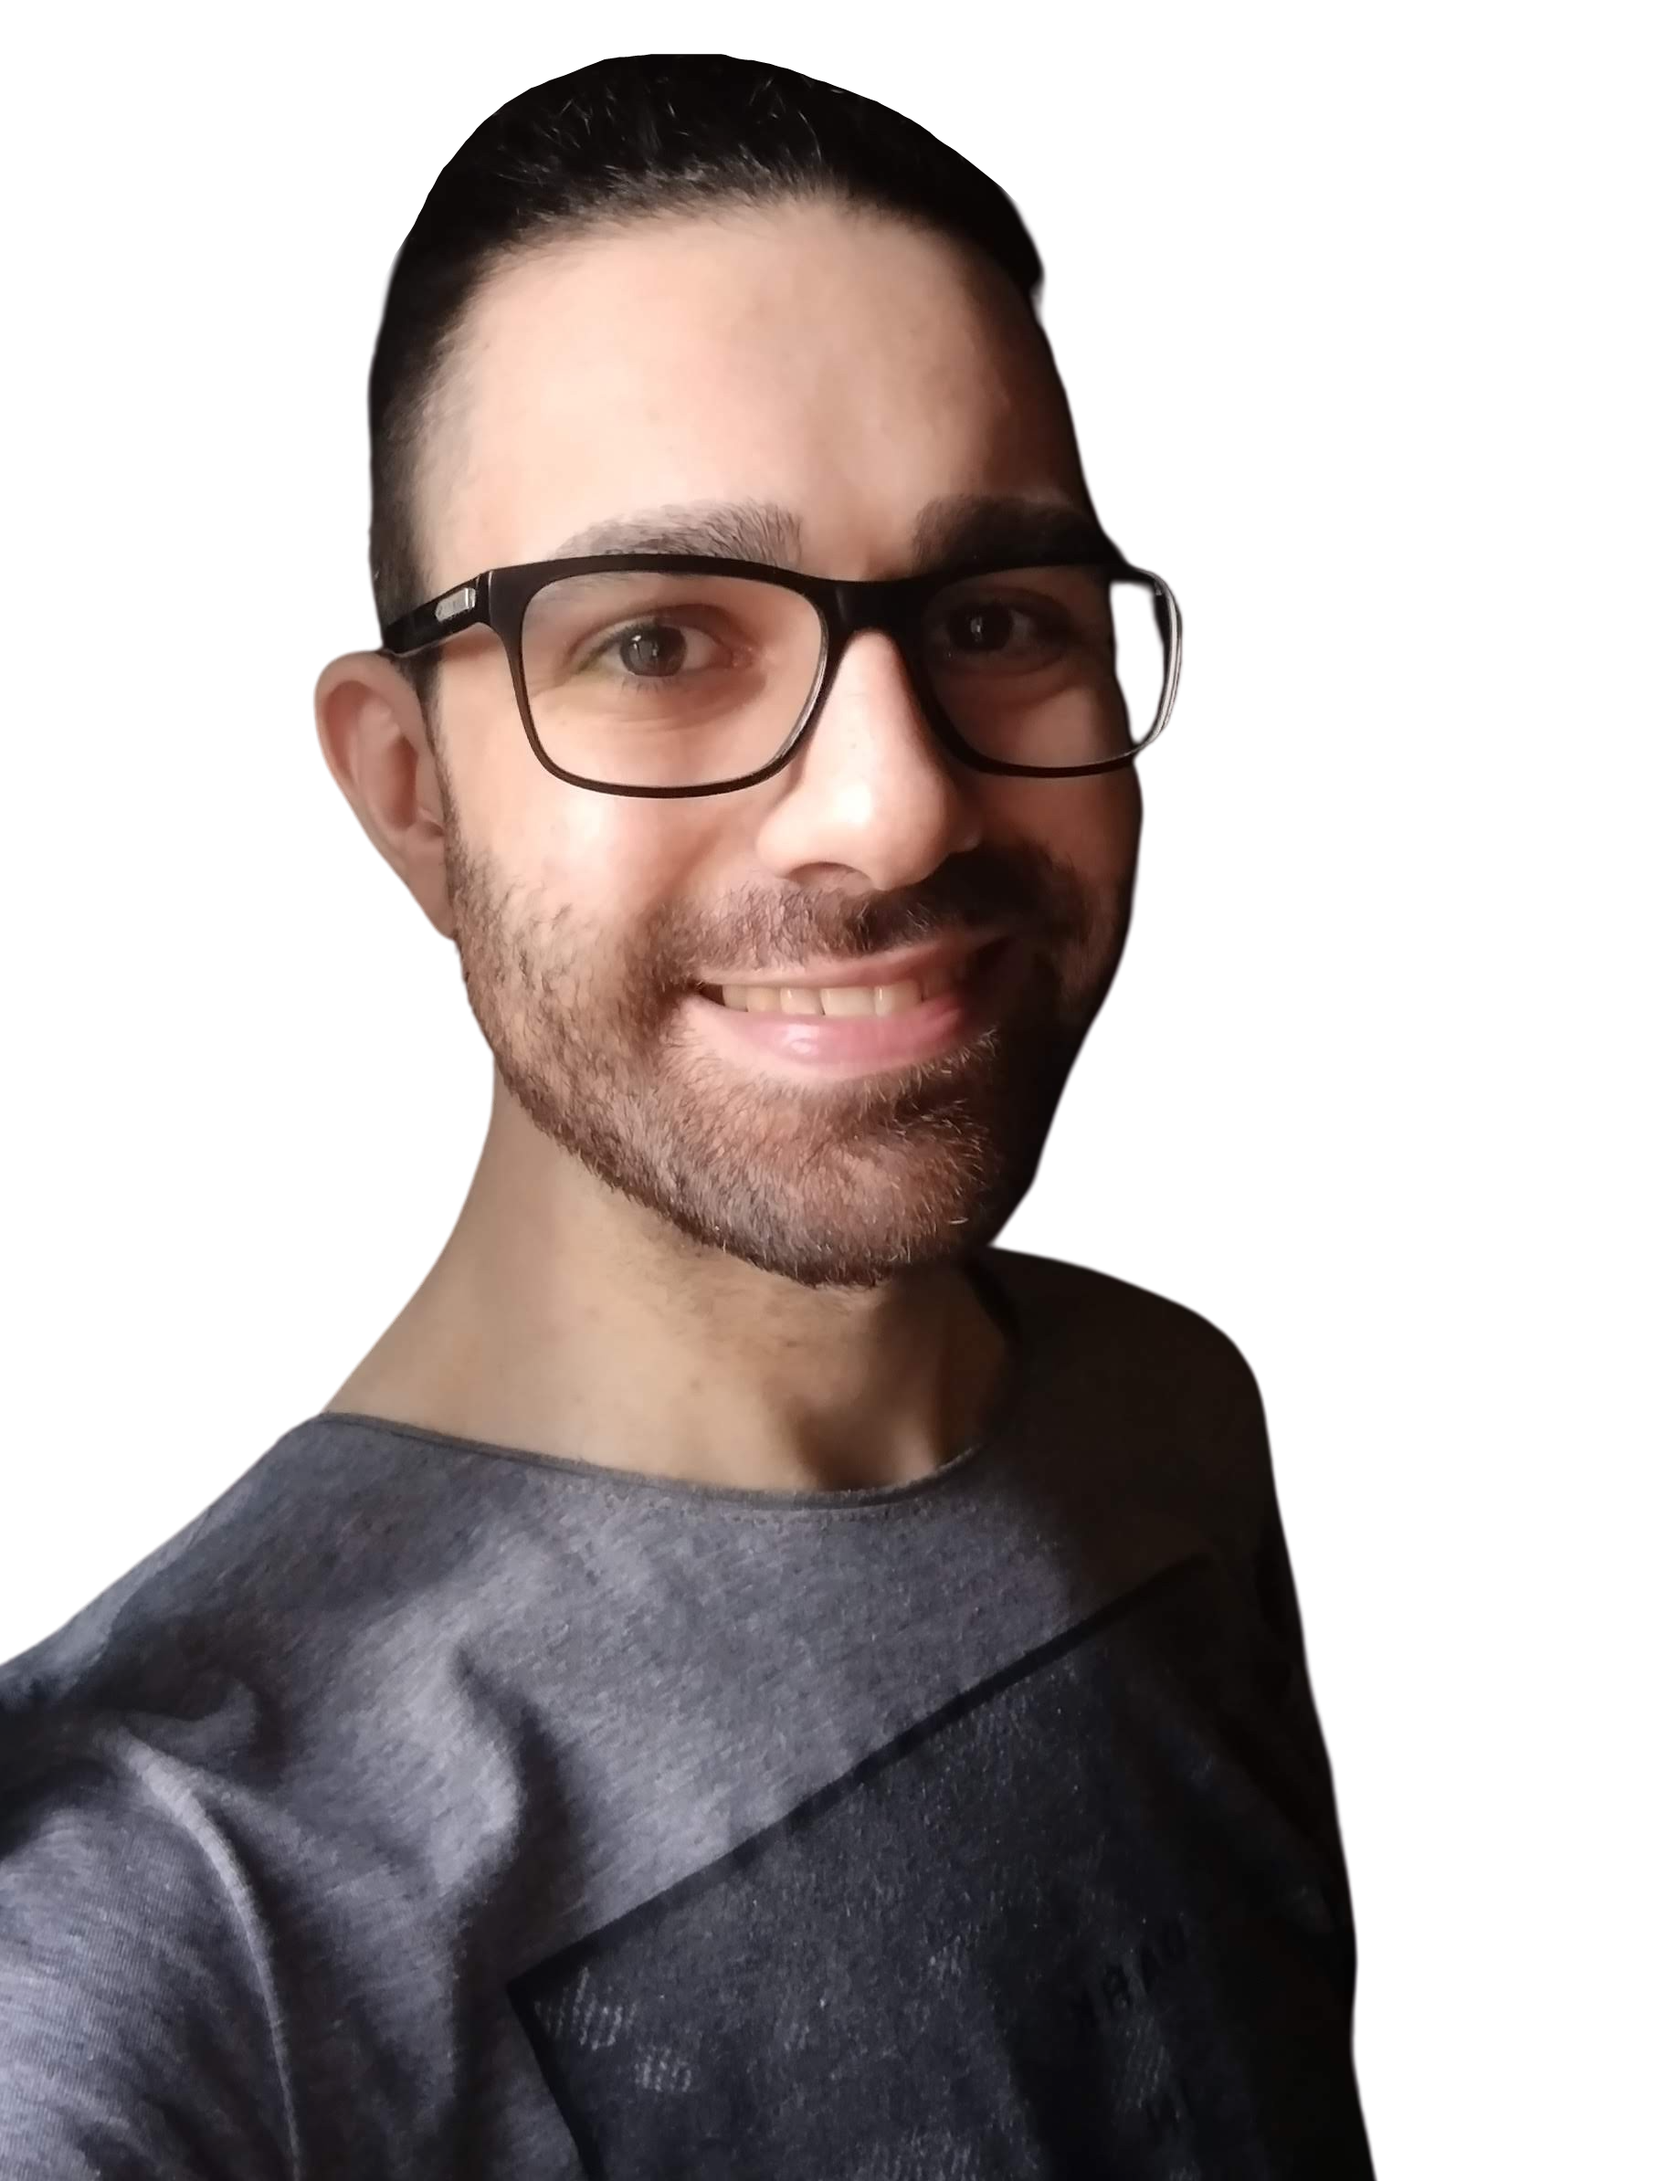
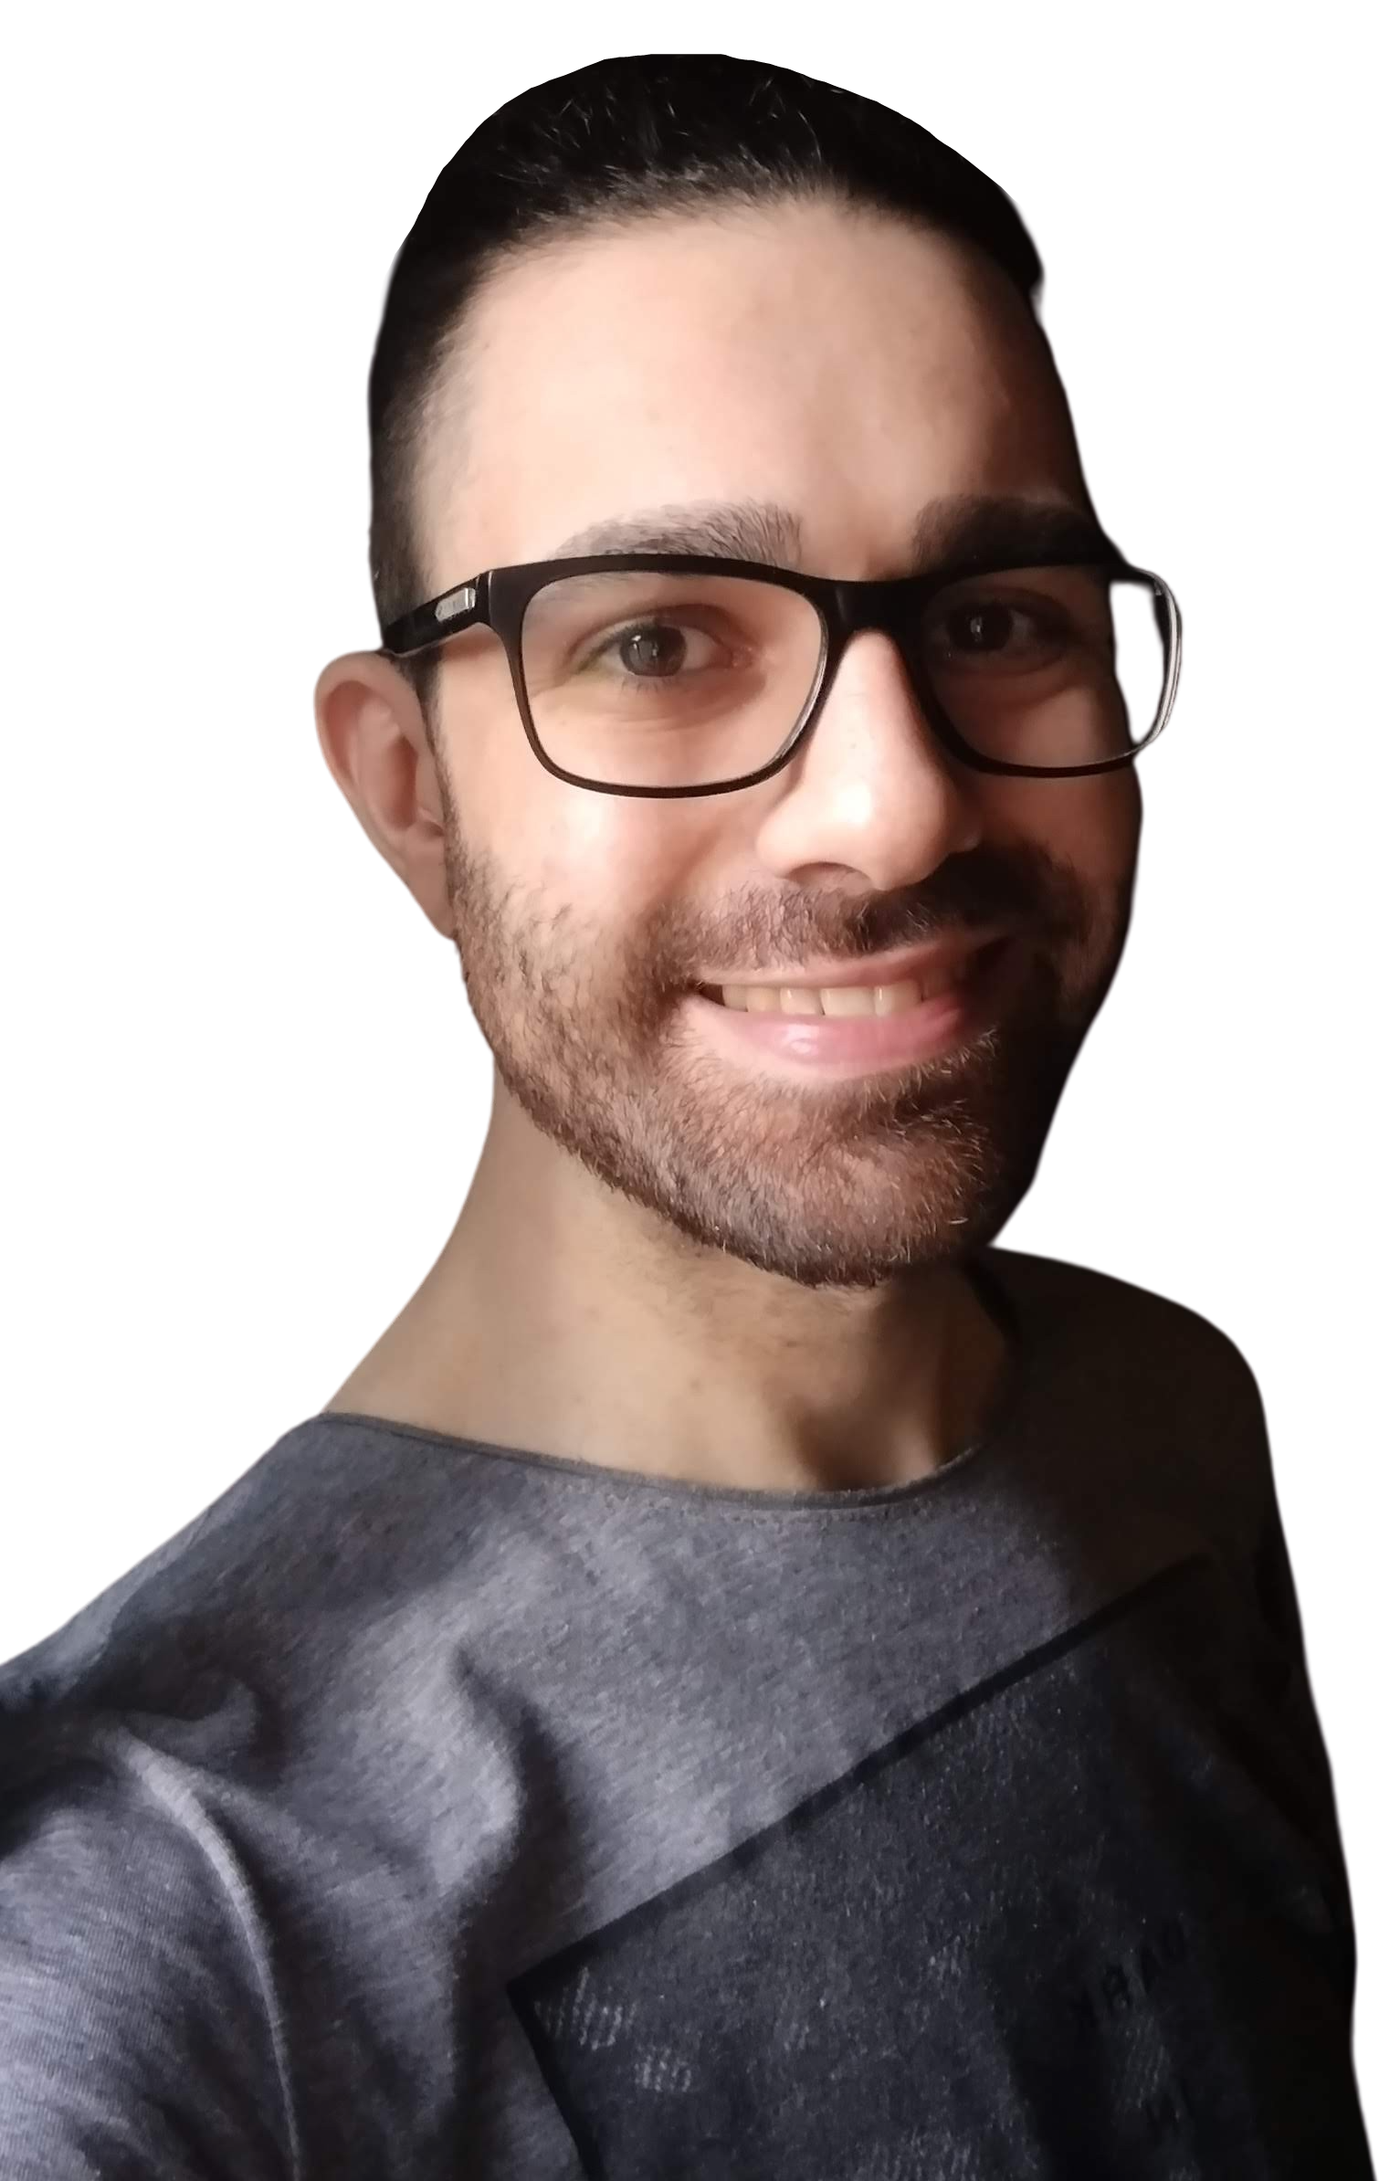
first prototype of navbar

diff --git a/src/components/AppHeader/index.tsx b/src/components/AppHeader/index.tsx
@@ -1,18 +1,111 @@
 import Logo from '../Logo'
 import LanguageSelector from '../LanguageSelector'
+import useContent from '@/hooks/useContent'
+import Link from 'next/link'
+import { breakPoints, colors } from '@/styles/theme'
+import { FontAwesomeIcon } from '@fortawesome/react-fontawesome'
+import { faBars } from '@fortawesome/free-solid-svg-icons'
+import React, { useState } from 'react'
 
 const AppHeader = () => {
+  const { navbar } = useContent()
+  const navbarArr = Object.values(navbar)
+  const [menuToggle, setMenuToggle] = useState<boolean>(false)
+
+  const handleMenuToggle = () => {
+    setMenuToggle(current => !current)
+  }
+
   return (
     <>
       <header>
         <Logo />
-        <LanguageSelector />
+        <section>
+          <LanguageSelector />
+          <button type='button' onClick={handleMenuToggle}>
+            <FontAwesomeIcon icon={faBars} />
+          </button>
+          <nav
+            style={
+              {
+                '--maxHeight': menuToggle ? '500px' : '0'
+              } as React.CSSProperties
+            }
+          >
+            <ul>
+              {navbarArr.map(item => (
+                <li key={item}>
+                  <Link href={`#${item}`}>{item}</Link>
+                </li>
+              ))}
+            </ul>
+          </nav>
+        </section>
       </header>
       <style jsx>{`
         header {
+          position: sticky;
+          z-index: 50;
+          top: 0;
+          left: 0;
+          background-color: ${colors.black};
+          width: 100%;
           display: flex;
-          padding: 1rem;
+          padding: 1rem 0;
           justify-content: space-between;
+        }
+
+        section {
+          display: flex;
+          align-items: center;
+          gap: 1rem;
+          margin-right: 20px;
+        }
+
+        button > :global(svg) {
+          width: 30px;
+          aspect-ratio: 1/1;
+          color: ${colors.primary};
+        }
+
+        nav {
+          position: absolute;
+          top: 100%;
+          left: 0;
+          width: 100%;
+          overflow: hidden;
+          height: fit-content;
+          transition: max-height 200ms linear;
+          max-height: var(--maxHeight);
+          background-color: ${colors.primary};
+          font-size: 1.2rem;
+          font-weight: 500;
+        }
+
+        ul {
+          overflow: auto;
+        }
+
+        li {
+          width: 300px;
+          text-align: center;
+          margin: auto;
+          border-radius: 1rem;
+        }
+
+        li > :global(a) {
+          padding: 12px 0;
+          color: ${colors.black};
+        }
+
+        @media (min-width: ${breakPoints.tablet}) {
+          li > :global(a):hover {
+            transition-property: background-color, color;
+            transition-duration: 75ms;
+            transition-timing-function: ease-in;
+            background-color: ${colors.tertiary};
+            color: ${colors.primary};
+          }
         }
       `}</style>
     </>

diff --git a/src/components/Presentation/index.tsx b/src/components/Presentation/index.tsx
@@ -1,13 +1,15 @@
 import useContent from '@/hooks/useContent'
+import { animations } from '@/styles/animations'
 import { breakPoints, colors } from '@/styles/theme'
 import Image from 'next/image'
 import React from 'react'
+import ArticleTitle from '../ArticleTitle'
 
 const Presentation = () => {
   const { navbar, presentation } = useContent()
   return (
     <>
-      <section>
+      <section id={navbar.presentation}>
         <article className='image'>
           <Image
             fill
@@ -16,14 +18,15 @@ const Presentation = () => {
           />
         </article>
         <article className='content'>
-          <h2>Agustin Di Benedetto</h2>
+          <ArticleTitle>Agustin Di Benedetto</ArticleTitle>
           <p>{presentation}</p>
         </article>
       </section>
       <style jsx>{`
         section {
           display: flex;
-          gap: 24px;
+          text-align: center;
+          gap: 0 32px;
           flex-direction: column;
           align-items: center;
           justify-content: center;
@@ -32,40 +35,26 @@ const Presentation = () => {
 
         .image {
           width: 300px;
-          aspect-ratio: 1/1;
+          aspect-ratio: 1/1.2;
           position: relative;
           background-image: radial-gradient(
             circle at top left,
             ${colors.tertiary},
             ${colors.secondary}
           );
-          clip-path: polygon(
-            50% 0%,
-            80% 10%,
-            100% 35%,
-            100% 70%,
-            80% 90%,
-            50% 100%,
-            20% 90%,
-            0% 70%,
-            0% 35%,
-            20% 10%
-          );
+          border-radius: 30% 70% 30% 70% / 80% 20% 80% 20%;
+          overflow: hidden;
+          animation: ${animations.morphingBorder} 30s ease infinite;
         }
 
         .image > :global(img) {
-          object-position: top;
+          object-position: 0px -5px;
           object-fit: cover;
-        }
-
-        .content h2 {
-          margin-top: 0;
-          color: ${colors.primary};
         }
 
         .content p {
           max-width: 400px;
-          line-height: 1.2em;
+          line-height: 1.4em;
           text-align: left;
         }
 
@@ -77,6 +66,11 @@ const Presentation = () => {
         @media (min-width: ${breakPoints.tablet}) {
           section {
             flex-direction: row;
+            text-align: left;
+          }
+          .image {
+            width: 350px;
+            object-position: center;
           }
         }
       `}</style>

diff --git a/src/styles/animations.ts b/src/styles/animations.ts
@@ -1,6 +1,6 @@
 import css from 'styled-jsx/css'
 
-export const animations = { toLeft: 'toLeft' }
+export const animations = { toLeft: 'toLeft', morphingBorder: 'morphingBorder' }
 
 export default css.global`
   @keyframes ${animations.toLeft} {
@@ -11,6 +11,24 @@ export default css.global`
     100% {
       opacity: 1;
       transform: translate(0px);
+    }
+  }
+
+  @keyframes ${animations.morphingBorder} {
+    0%,
+    100% {
+      border-radius: 30% 70% 70% 30% / 30% 30% 70% 70%;
+      box-shadow: 15px 15px 50px rgba(0, 0, 0, 0.2);
+    }
+    25% {
+      border-radius: 58% 42% 75% 25% / 76% 46% 54% 24%;
+    }
+    50% {
+      border-radius: 50% 50% 33% 67% / 55% 27% 73% 45%;
+      box-shadow: -10px -5px 50px rgba(0, 0, 0, 0.2);
+    }
+    75% {
+      border-radius: 33% 67% 58% 42% / 63% 68% 32% 37%;
     }
   }
 `

diff --git a/src/components/ArticleTitle/index.tsx b/src/components/ArticleTitle/index.tsx
@@ -1,0 +1,25 @@
+import { colors } from '@/styles/theme'
+import React from 'react'
+
+interface Props {
+  children: React.ReactNode
+}
+
+const ArticleTitle = ({ children }: Props) => {
+  return (
+    <>
+      <h3>{children}</h3>
+      <style jsx>{`
+        h3 {
+          text-transform: uppercase;
+          font-size: 1.3em;
+          color: ${colors.primary};
+          margin: 1rem 0;
+        }
+        }
+      `}</style>
+    </>
+  )
+}
+
+export default ArticleTitle

diff --git a/src/styles/globals.ts b/src/styles/globals.ts
@@ -13,6 +13,17 @@ export default css.global`
     padding: 0;
   }
 
+  a {
+    text-decoration: none;
+    display: block;
+  }
+
+  button {
+    cursor: pointer;
+    border: none;
+    background-color: transparent;
+  }
+
   body {
     margin: 0;
     padding: 0;

diff --git a/src/locales/es/navbar.ts b/src/locales/es/navbar.ts
@@ -1,8 +1,11 @@
 import { Navbar } from '@/types'
 
 const NAVBAR: Navbar = {
+  presentation: 'presentación',
+  me: 'yo',
+  skills: 'habilidades',
   projects: 'proyectos',
-  skills: 'habilidades'
+  contact: 'contactame!'
 }
 
 export default NAVBAR

diff --git a/src/components/Projects/index.tsx b/src/components/Projects/index.tsx
@@ -5,7 +5,7 @@ import React from 'react'
 const Projects = () => {
   const { projects, navbar } = useContent()
   return (
-    <section>
+    <section id={navbar.projects}>
       <h2>{navbar.projects}</h2>
       <ul>
         {projects.map(p => (

diff --git a/src/locales/en/navbar.ts b/src/locales/en/navbar.ts
@@ -1,8 +1,11 @@
 import { Navbar } from '@/types'
 
 const NAVBAR: Navbar = {
+  presentation: 'presentation',
+  me: 'me',
+  skills: 'skills',
   projects: 'projects',
-  skills: 'skills'
+  contact: 'contact me'
 }
 
 export default NAVBAR

diff --git a/src/components/Skills/index.tsx b/src/components/Skills/index.tsx
@@ -7,7 +7,7 @@ const Skills = () => {
   const { skills, navbar } = useContent()
   return (
     <>
-      <section>
+      <section id={navbar.skills}>
         <h2>{navbar.skills}</h2>
         <ul>
           {skills.map((s, i) => (
